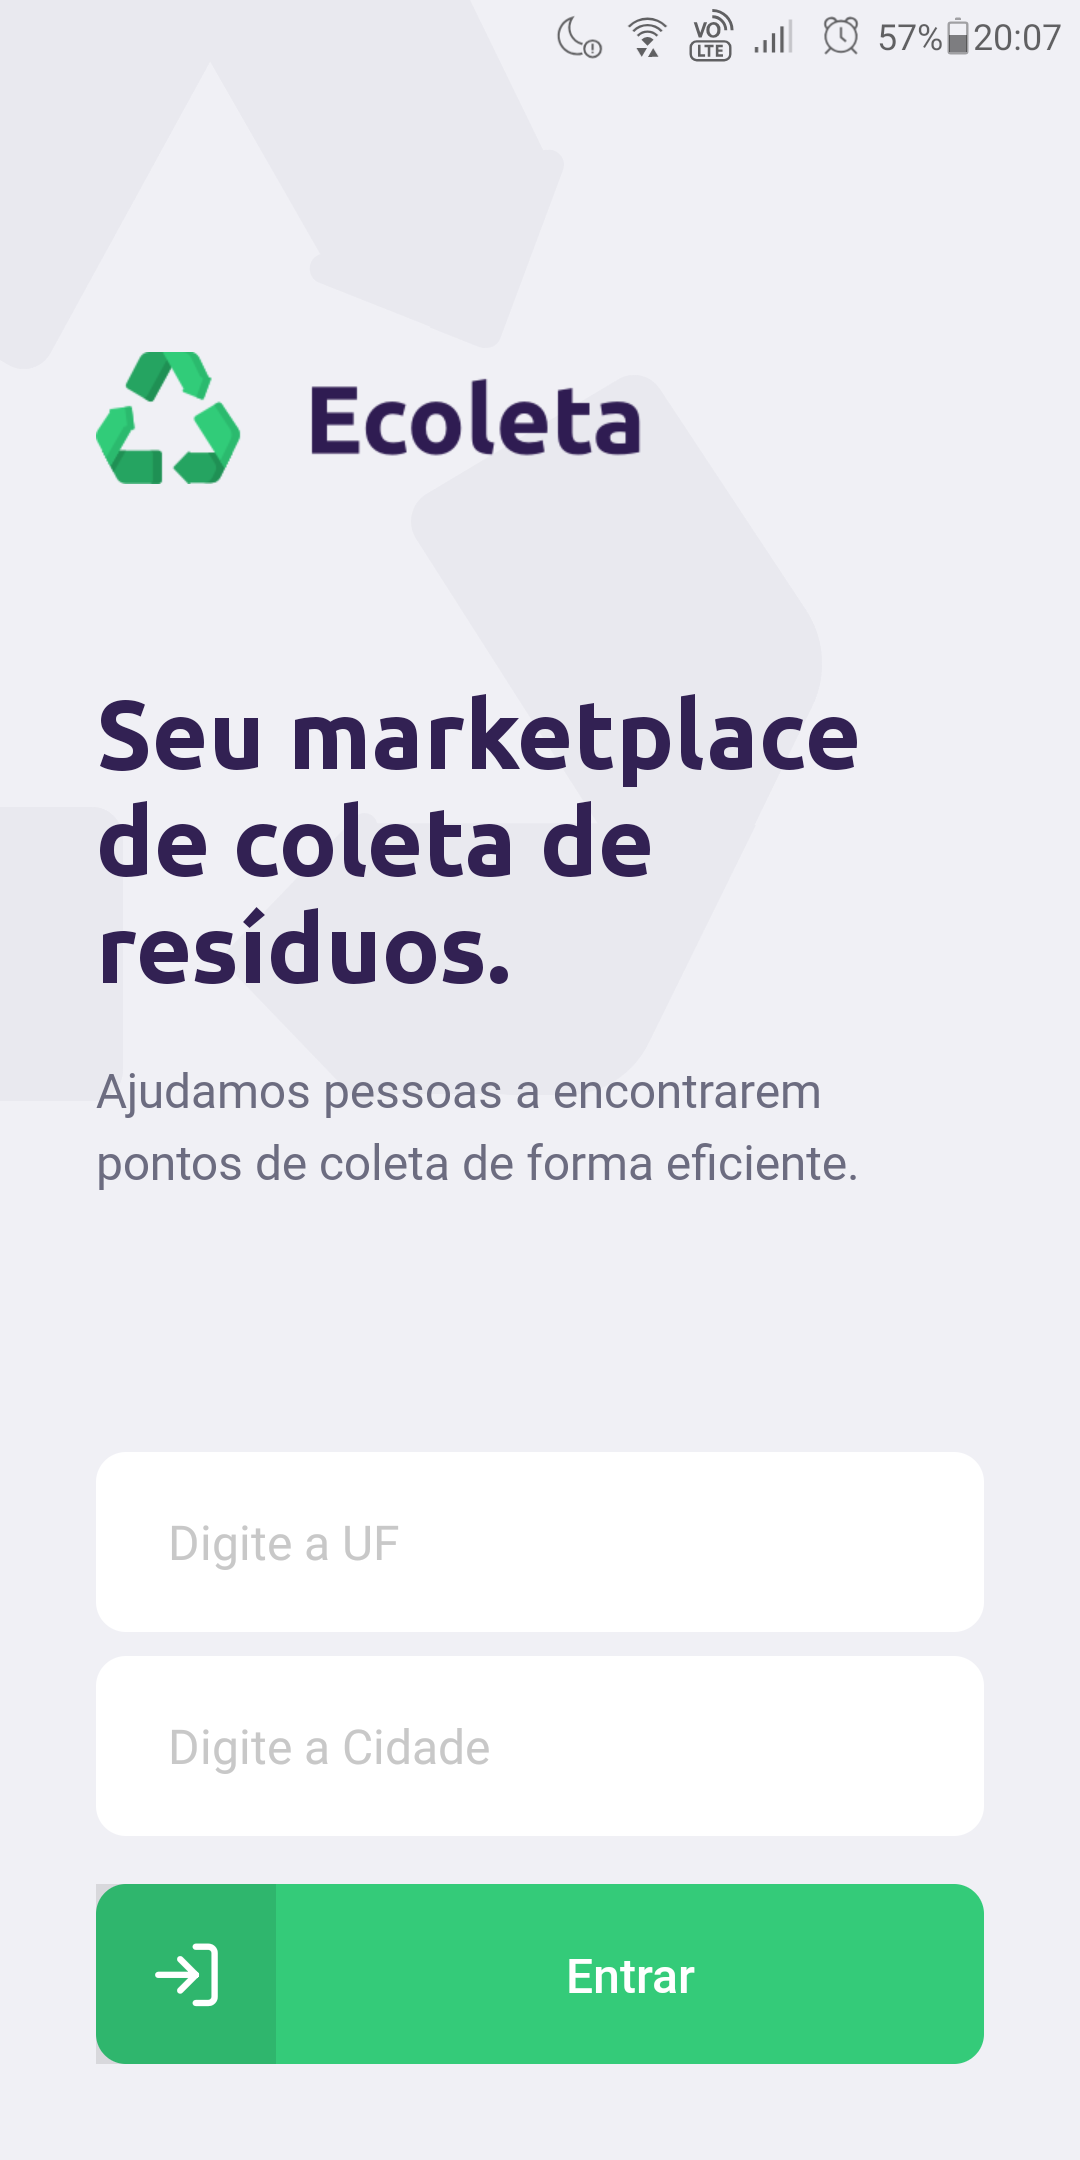
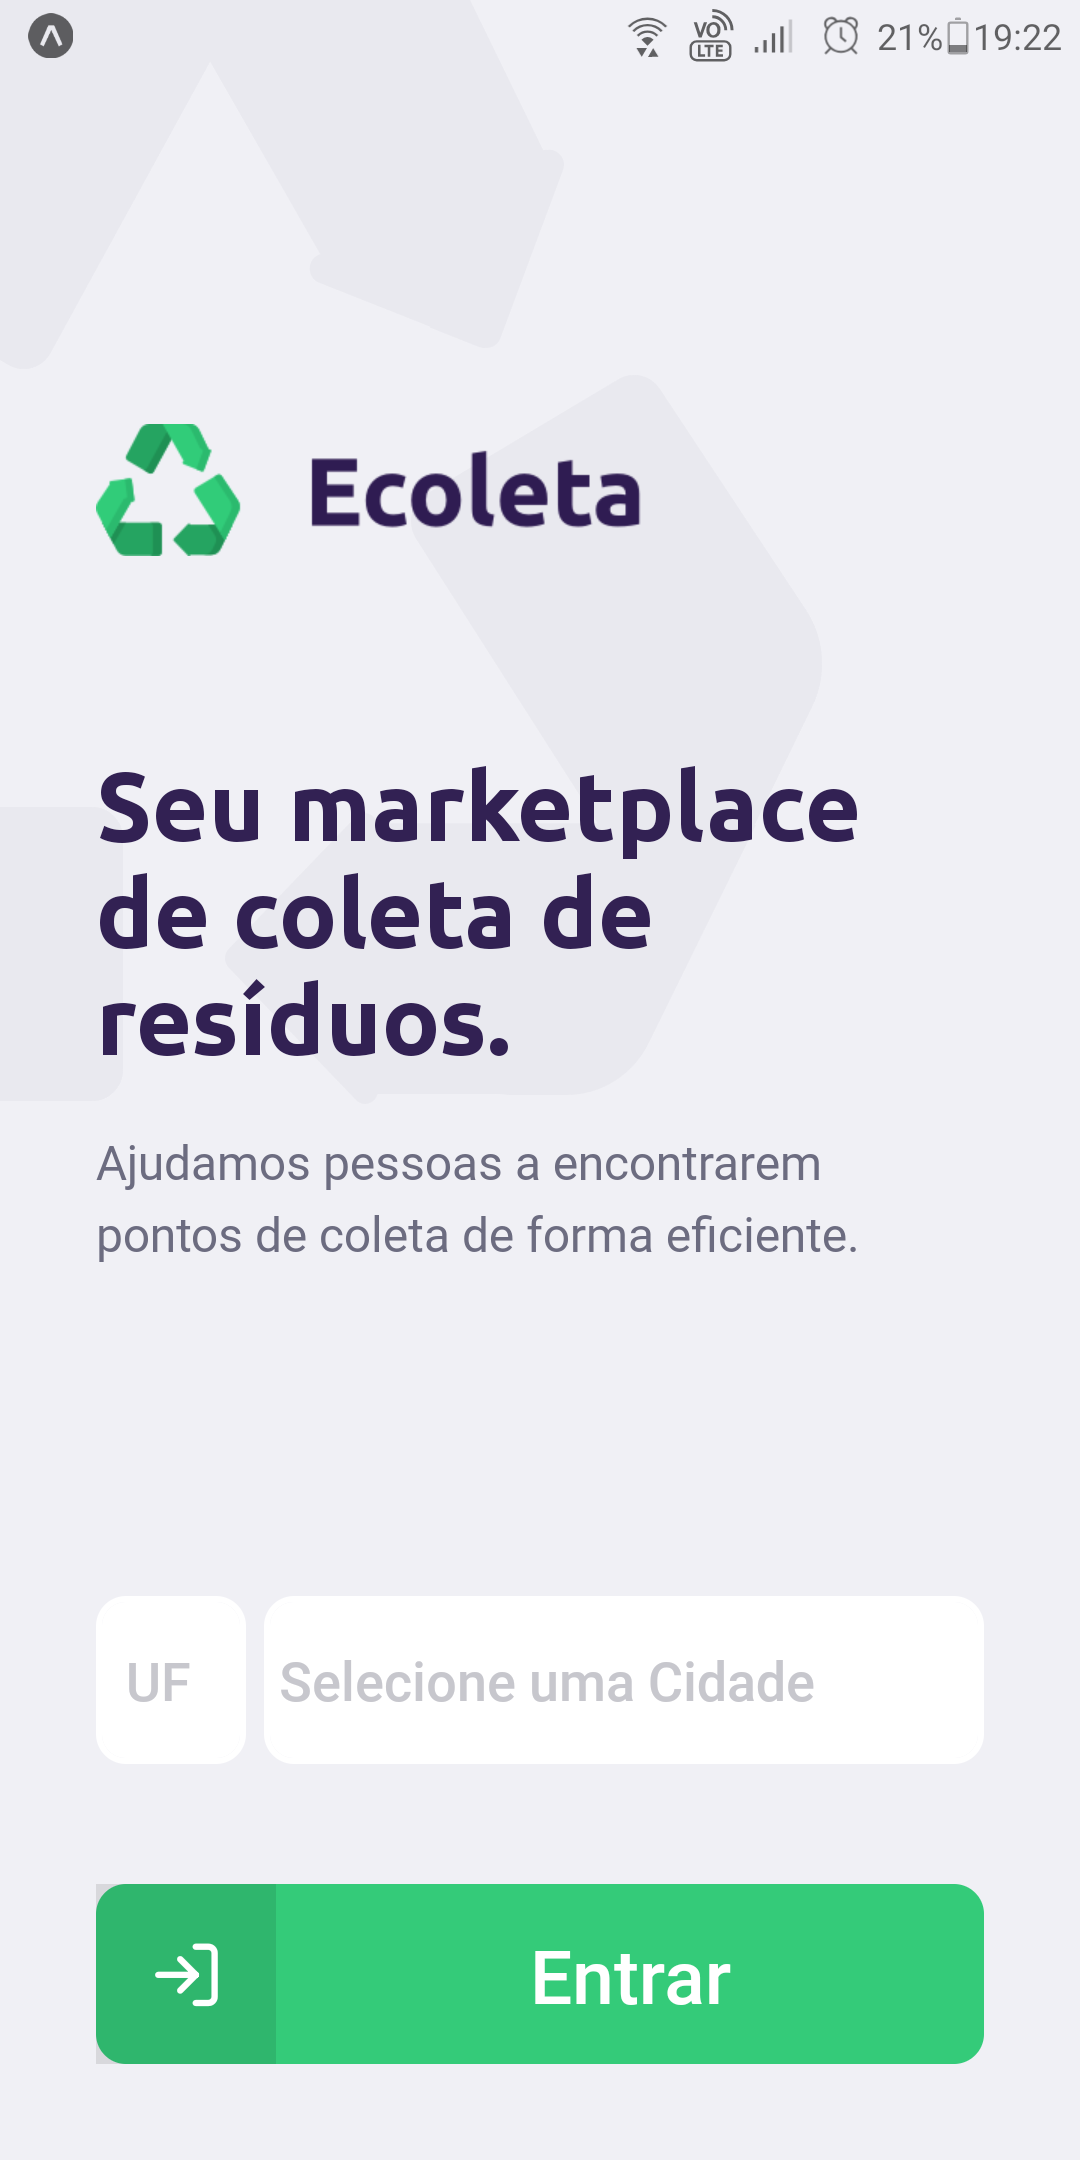
Added Picker Select in Home Page

diff --git a/mobile/src/pages/Home/index.tsx b/mobile/src/pages/Home/index.tsx
@@ -1,19 +1,55 @@
-import React, { useState } from 'react'
-import {View, Text, Image, ImageBackground, TextInput, KeyboardAvoidingView, Platform } from 'react-native'
+import React, { useState, useEffect } from 'react'
+import {View, Text, Image, ImageBackground, KeyboardAvoidingView, Platform, Alert } from 'react-native'
 import { Feather as Icon} from '@expo/vector-icons'
+import axios from 'axios'
 import { RectButton } from 'react-native-gesture-handler'
+import RNPickerSelect from 'react-native-picker-select'
 import { useNavigation } from '@react-navigation/native'
 import styles from './styles'
 
+interface IBGEUFResponse {
+    sigla: string
+}
+
+interface IBGECityResponse {
+    nome: string
+}
+
 const Home = () => {
     const navigation = useNavigation()
-    const [uf, setUf] = useState('')
-    const [city, setCity] = useState('')
+    const [uf, setUf] = useState<string[]>([])
+    const [city, setCity] = useState<string[]>([])
+    const [selectedUf, setSelectedUf] = useState('')
+    const [selectedCity, setSelectedCity] = useState('0')
+
+    useEffect(() => {
+        axios.get<IBGEUFResponse[]>('https://servicodados.ibge.gov.br/api/v1/localidades/estados')
+        .then(response => {
+            const siglas = response.data.map(uf => uf.sigla)
+            setUf(siglas)
+        })
+    }, [])
+
+    useEffect(() => {
+        if (selectedUf === '0'){
+            return
+        }
+
+        axios.get<IBGECityResponse[]>(`https://servicodados.ibge.gov.br/api/v1/localidades/estados/${selectedUf}/municipios`)
+        .then(response => {
+            const cityNames = response.data.map(city => city.nome)
+            setCity(cityNames)
+        })
+    }, [selectedUf])
 
     function handleNavigateToPoints() {
-        navigation.navigate('Points', {
-            uf, city
-        })
+        if (selectedUf && selectedCity) {
+            navigation.navigate('Points', {
+                selectedUf, selectedCity
+            })
+        } else {
+            Alert.alert("Entrada invalida", "Selecione uma cidade")
+        }
     }
 
     return (
@@ -31,20 +67,28 @@ const Home = () => {
                 </View>
                 
                 <View style={styles.footer}>
-                    <TextInput style={styles.input}
-                    placeholder="Digite a UF"
-                    maxLength={2}
-                    autoCapitalize="characters"
-                    autoCorrect={false}
-                    value={uf}
-                    onChangeText={setUf}/>
 
-                    <TextInput style={styles.input}
-                    placeholder="Digite a Cidade"
-                    autoCorrect={false}
-                    value={city}
-                    onChangeText={setCity}/>
-                    
+                    <View style={styles.pickerArea}>
+                        <RNPickerSelect
+                        placeholder={{ label: 'UF', value: null, color: 'red'}}
+                        useNativeAndroidPickerStyle={false}
+                        style={{inputAndroid: styles.pickerSelectUF}}
+                        onValueChange={(uf) => setSelectedUf(uf)}
+                        items={
+                            uf.map(uf => (
+                            { label: uf, value: uf }
+                        ))}/>
+                        
+                        <RNPickerSelect
+                        placeholder={{ label: 'Selecione uma Cidade', value: null, color: 'red'}}
+                        useNativeAndroidPickerStyle={false}
+                        style={{ inputAndroid: styles.pickerSelectCity }}
+                        onValueChange={(city) => setSelectedCity(city)}
+                        items={
+                            city.map(city => (
+                            { label: city, value: city }
+                        ))}/>
+                    </View>
                     <RectButton style={styles.button} onPress={handleNavigateToPoints}>
                         <View style={styles.buttonIcon}>
                             <Icon name="log-in" color="#FFF" size={25}/>

diff --git a/mobile/src/pages/Home/styles.tsx b/mobile/src/pages/Home/styles.tsx
@@ -1,5 +1,6 @@
 import { StyleSheet } from 'react-native'
 
+
 export default StyleSheet.create({
     container: {
       flex: 1,
@@ -40,6 +41,37 @@ export default StyleSheet.create({
       paddingHorizontal: 24,
       fontSize: 16,
     },
+
+    pickerArea: {
+      flexDirection: "row",
+      justifyContent: "space-between",
+      marginBottom: 20,
+    },
+
+    pickerSelectUF: {
+      fontSize: 18,
+      fontFamily: 'Roboto_500Medium',
+      width: 50,
+      paddingHorizontal: 10,
+      paddingVertical: 12,
+      borderWidth: 2,
+      borderColor: '#fff',
+      borderRadius: 10,
+      backgroundColor: '#fff',
+    },
+
+    pickerSelectCity: {
+      fontSize: 18,
+      fontFamily: 'Roboto_500Medium',
+      width: 240,
+      paddingHorizontal: 5,
+      paddingVertical: 12,
+      borderWidth: 2,
+      borderRadius: 10,
+      paddingRight: 5,
+      borderColor: '#fff',
+      backgroundColor: '#fff',
+    },
   
     button: {
       backgroundColor: '#34CB79',
@@ -48,7 +80,7 @@ export default StyleSheet.create({
       borderRadius: 10,
       overflow: 'hidden',
       alignItems: 'center',
-      marginTop: 8,
+      marginTop: 20,
     },
   
     buttonIcon: {
@@ -65,6 +97,6 @@ export default StyleSheet.create({
       textAlign: 'center',
       color: '#FFF',
       fontFamily: 'Roboto_500Medium',
-      fontSize: 16,
+      fontSize: 25,
     }
   });

diff --git a/web/src/pages/CreatePoint/index.tsx b/web/src/pages/CreatePoint/index.tsx
@@ -26,14 +26,14 @@ interface IBGECityResponse {
 const CreatePoint = () => {
     const [items, setItems] = useState<Item[]>([])
     const [ufs, setUfs] = useState<string[]>([])
-    const [selectedUf, setSelectedUf] = useState('')
     const [cities, setCities] = useState<string[]>([])
-    const [selectedCity, setSelectedCity] = useState('0')
     const [initialPosition, setInitialPosition] = useState<[number, number]>([0, 0])
-    const [selectedPosition, setSelectedPosition] = useState<[number, number]>([0, 0])
     const [formData, setFormData] = useState({name:'', email:'', whatsapp:''})
+    const [selectedUf, setSelectedUf] = useState('')
+    const [selectedCity, setSelectedCity] = useState('0')
     const [selectedItems, setSelectedItems] = useState<number[]>([])
     const [selectedFile, setSelectedFile] = useState<File>()
+    const [selectedPosition, setSelectedPosition] = useState<[number, number]>([0, 0])
     const history = useHistory()
     
     useEffect(() => {

diff --git a/mobile/src/pages/Points/index.tsx b/mobile/src/pages/Points/index.tsx
@@ -24,8 +24,8 @@ interface Points {
 }
 
 interface Params {
-    uf: string,
-    city: string
+    selectedUf: string,
+    selectedCity: string
 }
 
 const Points = () => {
@@ -63,10 +63,13 @@ const Points = () => {
     }, [])
 
     useEffect(() => {
+        console.log(routeParams.selectedUf);
+        console.log(routeParams.selectedCity);
+        
         api.get('/points', {
             params: {
-                city: routeParams.city,
-                uf: routeParams.uf,
+                city: routeParams.selectedCity,
+                uf: routeParams.selectedUf,
                 items: selectedItems
             }
         }).then(response => {
